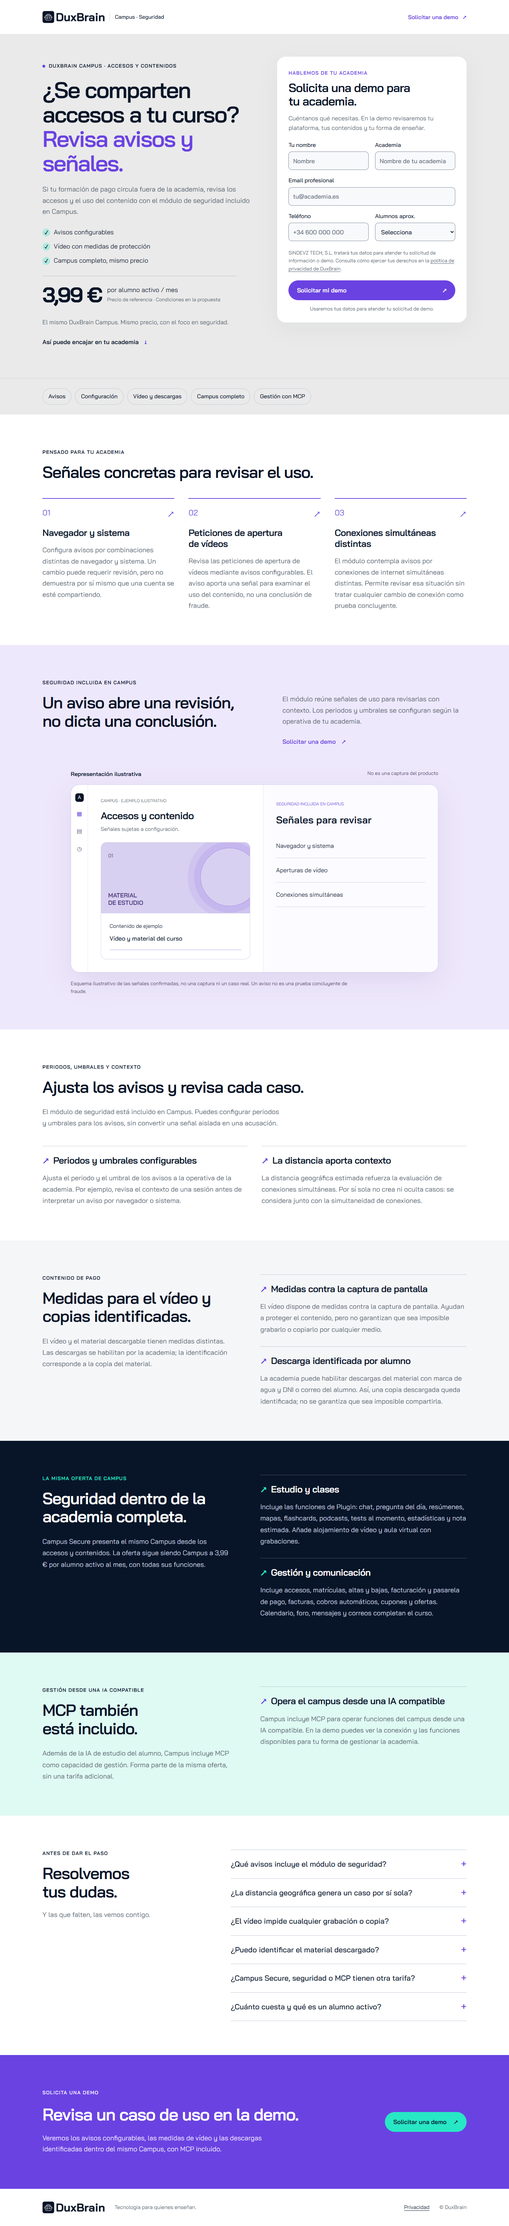
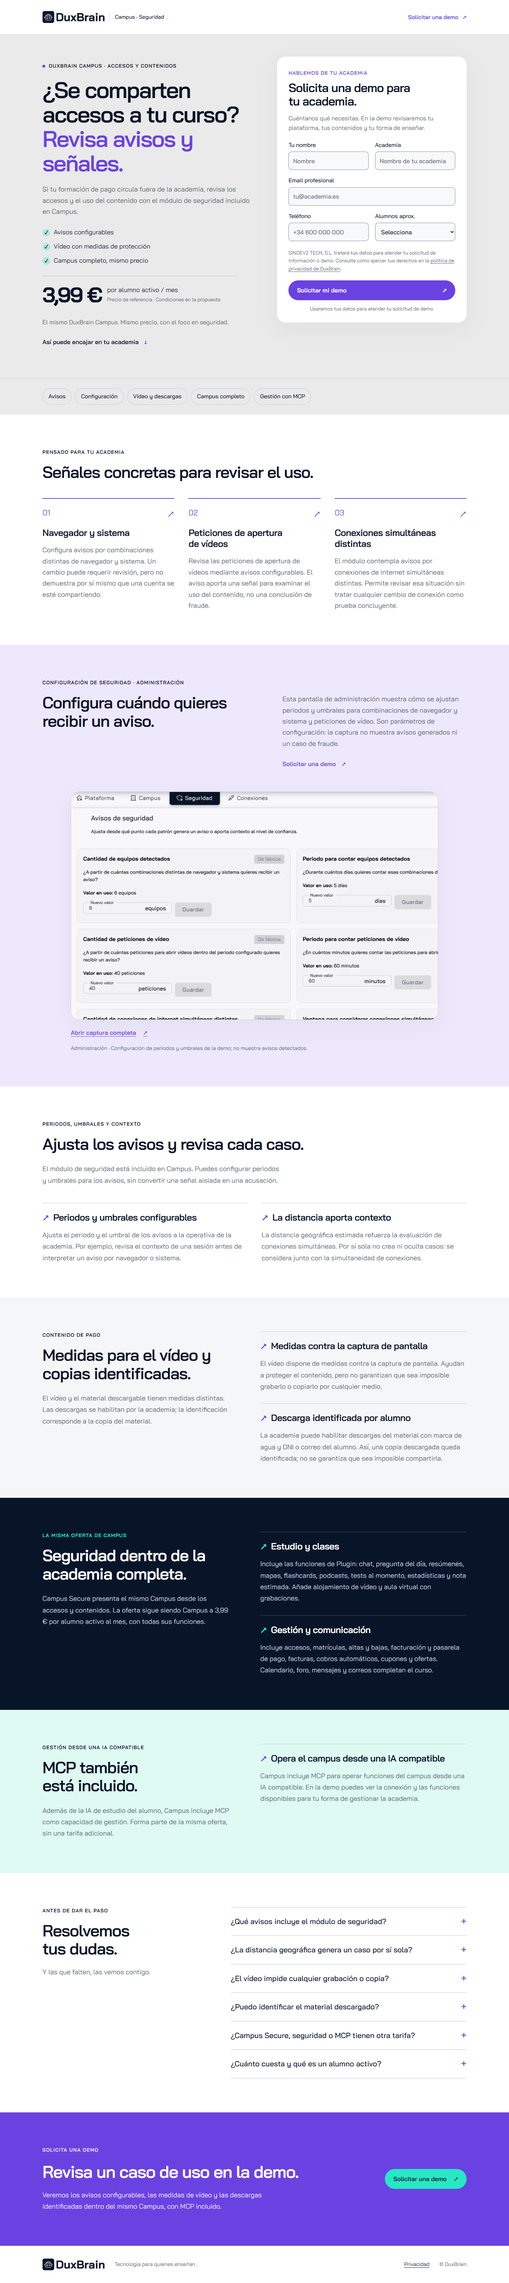
feat: integrate reviewed product screenshots across landing pages

diff --git a/src/content/landings.ts b/src/content/landings.ts
@@ -8,7 +8,7 @@ export type LandingContent = {
   description: string; price: string; points: string[];
   benefitsTitle: string; benefits: { title: string; text: string }[];
   demoTitle: string; demoText: string;
-  demo: { courseTitle: string; subtitle: string; material: string; panelLabel: string; panelTitle: string; question?: string; answer?: string; reviewTopics?: string[]; caption: string };
+  demo: { panelLabel: string };
   sections: LandingSection[];
   finalTitle: string; finalText: string;
   faqs: { question: string; answer: string }[];
@@ -16,13 +16,6 @@ export type LandingContent = {
 };
 const priceFaq = (price: string) => ({ question: "¿Cuánto cuesta y qué es un alumno activo?", answer: `El precio de referencia es ${price} por alumno activo al mes. Antes de contratar, confirmaremos cómo se cuenta un alumno activo, los impuestos y las condiciones de la propuesta.` });
 const aiFaq = { question: "¿La IA sustituye al profesor o garantiza una nota?", answer: "No. La IA ayuda a estudiar sobre el temario de la academia, pero puede equivocarse. La nota estimada es una orientación para el estudio, no una garantía de resultado en un examen. El contenido del curso y el criterio del docente siguen siendo la referencia." };
-const studyDemo = {
-  courseTitle: "Estadística · Tema 1", subtitle: "Contenido ficticio para explicar el uso.", material: "Variables y ejemplos",
-  panelLabel: "EJEMPLO DE CHAT SOBRE EL TEMARIO", panelTitle: "Una duda sobre el tema.",
-  question: "¿Qué es una variable? Ponme un ejemplo.",
-  answer: "En el Tema 1 de este ejemplo, una variable es un dato que puede cambiar. Las horas de estudio son una variable: cada alumno puede dedicar un tiempo distinto.",
-  caption: "Ejemplo editorial ilustrativo, no una captura ni una respuesta real del producto. El material y la conversación son ficticios.",
-};
 const downloads = { title: "Descarga identificada por alumno", text: "La academia puede habilitar descargas del material con marca de agua y DNI o correo del alumno. Así, una copia descargada queda identificada; no se garantiza que sea imposible compartirla." };
 const videoProtection = { title: "Medidas contra la captura de pantalla", text: "El vídeo dispone de medidas contra la captura de pantalla. Ayudan a proteger el contenido, pero no garantizan que sea imposible grabarlo o copiarlo por cualquier medio." };
 const mcp = { title: "Opera el campus desde una IA compatible", text: "Campus incluye MCP para operar funciones del campus desde una IA compatible. En la demo puedes ver la conexión y las funciones disponibles para tu forma de gestionar la academia." };
@@ -39,7 +32,7 @@ export const landings: Record<LandingId, LandingContent> = {
       { title: "Practica lo que has estudiado", text: "Después de leer, el alumno puede generar un test al momento o repasar con flashcards. El estudio continúa sobre el mismo temario." },
     ],
     demoTitle: "Una duda concreta sobre el material de tu academia.",
-    demoText: "El chat conecta el estudio con el temario: el alumno pregunta por una idea y puede pedir otra forma de entenderla. Este ejemplo editorial muestra ese recorrido.", demo: studyDemo,
+    demoText: "El chat conecta el estudio con el temario: el alumno pregunta por una idea y puede pedir otra forma de entenderla. En esta captura de la academia demo, pregunta sobre la romanización en Hispania y recibe una respuesta con referencias al material.", demo: { panelLabel: "CHAT SOBRE EL TEMARIO · VISTA DE ALUMNO" },
     sections: [
       { id: "herramientas", navLabel: "Herramientas", eyebrow: "PARA ENTENDER Y PRACTICAR", title: "Elige cómo trabajar cada tema.", description: "Plugin incluye chat y pregunta del día, junto con herramientas para preparar el repaso y poner a prueba lo aprendido.", items: [
         { title: "Resúmenes y mapas conceptuales", text: "Repasa las ideas principales con un resumen y sus relaciones con un mapa conceptual. Por ejemplo, vuelve a la estructura de un tema antes de practicarlo." },
@@ -77,8 +70,8 @@ export const landings: Record<LandingId, LandingContent> = {
       { title: "Repasa y practica a su ritmo", text: "Campus incluye las herramientas de Plugin: pregunta del día, resúmenes, mapas conceptuales, flashcards, podcasts y tests generados al momento." },
       { title: "Consulta cómo va estudiando", text: "Las estadísticas de estudio y la nota estimada ayudan a orientar el repaso. El equipo de la academia cuenta también con seguimiento del alumnado." },
     ],
-    demoTitle: "El contenido y la ayuda de estudio, en el mismo lugar.",
-    demoText: "El alumno encuentra el tema, pregunta y continúa su estudio. Campus incluye la experiencia de Plugin y añade el entorno para enseñar y gestionar la academia.", demo: studyDemo,
+    demoTitle: "El recorrido del alumno empieza en sus cursos.",
+    demoText: "En la vista Mis cursos de la academia demo, el alumno encuentra las materias disponibles. Desde el curso continúa hacia los materiales y las herramientas de estudio. Campus reúne ese recorrido con las clases y la gestión.", demo: { panelLabel: "MIS CURSOS · VISTA DE ALUMNO" },
     sections: [
       { id: "clases-video", navLabel: "Clases y vídeo", eyebrow: "DEL MATERIAL A LA CLASE", title: "Da clase y conserva la grabación.", description: "Campus incluye alojamiento de vídeo y aula virtual con grabaciones para reunir las clases y los materiales del curso.", items: [
         { title: "Vídeo alojado en Campus", text: "Incorpora el vídeo a tu formación. El alumno puede volver a una explicación grabada junto al material que está estudiando." },
@@ -121,9 +114,9 @@ export const landings: Record<LandingId, LandingContent> = {
       { title: "Peticiones de apertura de vídeos", text: "Revisa las peticiones de apertura de vídeos mediante avisos configurables. El aviso aporta una señal para examinar el uso del contenido, no una conclusión de fraude." },
       { title: "Conexiones simultáneas distintas", text: "El módulo contempla avisos por conexiones de internet simultáneas distintas. Permite revisar esa situación sin tratar cualquier cambio de conexión como prueba concluyente." },
     ],
-    demoTitle: "Un aviso abre una revisión, no dicta una conclusión.",
-    demoText: "El módulo reúne señales de uso para revisarlas con contexto. Los periodos y umbrales se configuran según la operativa de tu academia.",
-    demo: { courseTitle: "Accesos y contenido", subtitle: "Señales sujetas a configuración.", material: "Vídeo y material del curso", panelLabel: "SEGURIDAD INCLUIDA EN CAMPUS", panelTitle: "Señales para revisar", reviewTopics: ["Navegador y sistema", "Aperturas de vídeo", "Conexiones simultáneas"], caption: "Esquema ilustrativo de las señales confirmadas, no una captura ni un caso real. Un aviso no es una prueba concluyente de fraude." },
+    demoTitle: "Configura cuándo quieres recibir un aviso.",
+    demoText: "Esta pantalla de administración muestra cómo se ajustan periodos y umbrales para combinaciones de navegador y sistema y peticiones de vídeo. Son parámetros de configuración: la captura no muestra avisos generados ni un caso de fraude.",
+    demo: { panelLabel: "CONFIGURACIÓN DE SEGURIDAD · ADMINISTRACIÓN" },
     sections: [
       { id: "configuracion-avisos", navLabel: "Configuración", eyebrow: "PERIODOS, UMBRALES Y CONTEXTO", title: "Ajusta los avisos y revisa cada caso.", description: "El módulo de seguridad está incluido en Campus. Puedes configurar periodos y umbrales para los avisos, sin convertir una señal aislada en una acusación.", items: [
         { title: "Periodos y umbrales configurables", text: "Ajusta el periodo y el umbral de los avisos a la operativa de la academia. Por ejemplo, revisa el contexto de una sesión antes de interpretar un aviso por navegador o sistema." },

diff --git a/src/app/globals.css b/src/app/globals.css
@@ -119,36 +119,14 @@ fieldset:disabled .button { opacity: .7; cursor: default; transform: none; }
 .demo-copy p { margin: 24px 0; font-size: 17px; max-width: 58ch; }
 .demo-copy .text-link { color: var(--purple); }
 .demo-figure { margin: 0; min-width: 0; width: 100%; }
-.illustration-label { display: flex; flex-direction: column; gap: 4px; margin-bottom: 16px; font-size: 16px; font-weight: 600; color: var(--ink); }
-.illustration-label span { font-size: 14px; font-weight: 400; color: #514466; }
-.product-window { border-radius: var(--radius); background: white; overflow: hidden; box-shadow: 0 24px 70px #422a781a; border: 1px solid #d9cdef; }
-.product-body { display: grid; grid-template-columns: 32px minmax(0, 1fr); }
-.mock-sidebar { display: flex; flex-direction: column; align-items: center; padding: 24px 0; gap: 20px; border-right: 1px solid #e7e4ed; }
-.mock-square { width: 24px; height: 24px; background: var(--ink); color: white; border-radius: 7px; text-align: center; font-size: 14px; }
-.mock-nav { font-size: 18px; color: #77698d; }
-.mock-nav.active { color: var(--purple); }
-.mock-main { padding: 24px 18px; }
-.mock-kicker { font-size: 12px; line-height: 1.5; color: var(--muted); margin-bottom: 16px; }
-.mock-main h3 { font-size: 24px; }
-.mock-subtitle { font-size: 15px; margin-top: 10px; }
-.course-preview { margin-top: 24px; border: 1px solid #d9d2e7; border-radius: 16px; overflow: hidden; }
-.course-art { background: #d8d0f0; height: 140px; position: relative; overflow: hidden; padding: 20px; color: #493480; }
-.course-art > span:first-child { font-size: 14px; }
-.art-caption { position: absolute; left: 20px; bottom: 20px; font-size: 17px; font-weight: 600; line-height: 1.2; }
-.orbit { position: absolute; border: 1px solid #6a42e175; border-radius: 50%; width: 165px; height: 165px; right: -25px; top: 15px; box-shadow: 0 0 0 18px #6a42e11a, 0 0 0 36px #6a42e115; }
-.course-bottom { padding: 20px; display: grid; gap: 8px; font-size: 15px; }
-.course-bottom strong { font-size: 17px; font-weight: 500; }
-.course-line { width: 100%; height: 4px; background: #ebe6f7; margin-top: 8px; border-radius: 10px; }
-.mock-panel { grid-column: 2; border-top: 1px solid #e7e4ed; padding: 28px 18px; background: #fcfbff; }
-.panel-tag { font-size: 12px; color: var(--purple); line-height: 1.5; }
-.mock-panel h4 { font-size: 24px; margin-top: 16px; }
-.chat-question { margin: 24px 0 16px; background: var(--purple); color: white; border-radius: 16px 16px 0 16px; padding: 16px; font-size: 17px; }
-.chat-answer { display: flex; gap: 10px; font-size: 17px; background: #f0edf7; padding: 16px; border-radius: 16px; }
-.ai-mark { color: var(--purple); }
-.mock-input { margin-top: 24px; padding: 12px; border: 1px solid #cfc4df; border-radius: 10px; font-size: 15px; color: var(--muted); }
-.control-list { margin-top: 24px; font-size: 17px; }
-.control-list > div { padding: 20px 0; border-bottom: 1px solid #d8cfe7; }
-figcaption { font-size: 14px; line-height: 1.6; color: #514466; margin-top: 20px; max-width: 90ch; }
+.product-capture { margin: 0; min-width: 0; }
+.capture-link { display: block; }
+.capture-frame { border-radius: var(--radius); background: white; overflow: hidden; box-shadow: var(--shadow); border: 1px solid #c9cdd7; }
+.capture-frame img { display: block; width: 100%; height: auto; }
+.capture-open { display: inline-flex; align-items: center; gap: 20px; min-height: 48px; margin-top: 12px; font-size: 17px; font-weight: 600; color: var(--purple); text-decoration: underline; text-underline-offset: 4px; }
+.capture-link:focus-visible { border-radius: var(--radius); }
+figcaption { font-size: 15px; line-height: 1.6; color: var(--muted); margin-top: 8px; max-width: 90ch; }
+.section-capture { grid-column: 1 / -1; width: 100%; max-width: 1040px; margin-inline: auto; }
 .product-clarification { font-size: 17px; margin: 0 0 20px; max-width: 48ch; }
 .faq-band { background: var(--surface); }
 .faq-section { display: grid; gap: 36px; }
@@ -196,9 +174,6 @@ details p { font-size: 17px; line-height: 1.75; padding-top: 20px; max-width: 65
   .lead-card { padding: 36px; }
   .form-grid { grid-template-columns: repeat(2, minmax(0, 1fr)); }
   .full { grid-column: 1 / -1; }
-  .mock-panel { grid-column: auto; border-top: 0; border-left: 1px solid #e7e4ed; }
-  .product-body { grid-template-columns: 48px minmax(0, 1fr) minmax(0, 1fr); }
-  .illustration-label { flex-direction: row; justify-content: space-between; gap: 20px; }
   .footer p { flex: 1; }
   .final-cta .button { width: auto; }
   .review-grid { grid-template-columns: repeat(3, minmax(0, 1fr)); }
@@ -236,10 +211,6 @@ details p { font-size: 17px; line-height: 1.75; padding-top: 20px; max-width: 65
   .demo-copy p { margin: 0 0 20px; }
   .demo-copy a { grid-column: 2; justify-self: start; align-self: start; }
   .demo-figure { max-width: 1040px; margin-inline: auto; }
-  .mock-main, .mock-panel { padding: 36px; }
-  .mock-main h3, .mock-panel h4 { font-size: 28px; }
-  .course-art { height: 200px; }
-  .course-bottom { padding: 24px; }
   .faq-section { grid-template-columns: .8fr 1.2fr; gap: 88px; }
   summary { font-size: 21px; }
   .final-cta { flex-direction: row; align-items: center; justify-content: space-between; gap: 64px; }

diff --git a/src/components/landing.tsx b/src/components/landing.tsx
@@ -1,6 +1,7 @@
 import Link from "next/link";
 import Image from "next/image";
 import type { LandingContent } from "@/content/landings";
+import { primaryScreenshots, sectionScreenshots, type ProductScreenshot } from "@/content/product-images";
 import { privacyUrl } from "@/lib/leads";
 import { LeadForm } from "./lead-form";
 
@@ -52,17 +53,23 @@ export function FeatureSections({ content: c }: { content: LandingContent }) {
   return c.sections.map(section => <section className={`section feature-section band-${tones[section.id] ?? "paper"}`} id={section.id} key={section.id} aria-labelledby={`${section.id}-title`}><div className="container feature-layout">
     <div className="section-heading"><span className="eyebrow">{section.eyebrow}</span><h2 id={`${section.id}-title`}>{section.title}</h2><p className="feature-description">{section.description}</p></div>
     <div className="feature-grid">{section.items.map(item => <article className="feature-item" key={item.title}><h3><span aria-hidden="true">↗</span>{item.title}</h3><p>{item.text}</p></article>)}</div>
+    {sectionScreenshots[`${c.id}/${section.id}`] && <div className="section-capture"><ProductCapture screenshot={sectionScreenshots[`${c.id}/${section.id}`]} /></div>}
   </div></section>);
+}
+
+function ProductCapture({ screenshot }: { screenshot: ProductScreenshot }) {
+  return <figure className="product-capture">
+    <a className="capture-link" href={screenshot.src} target="_blank" rel="noopener noreferrer" aria-label={`Abrir captura completa en otra pestaña: ${screenshot.alt}`}>
+      <div className="capture-frame"><Image src={screenshot.src} alt={screenshot.alt} width={screenshot.width} height={screenshot.height} sizes="(max-width: 599px) calc(100vw - 40px), (max-width: 1103px) calc(100vw - 64px), 1040px" /></div>
+      <span className="capture-open">Abrir captura completa <span aria-hidden="true">↗</span></span>
+    </a>
+    <figcaption>{screenshot.caption}</figcaption>
+  </figure>;
 }
 
 export function VisualDemo({ content: c }: { content: LandingContent }) {
   return <section className="demo-section" id="en-accion"><div className="container demo-layout"><div className="demo-copy"><span className="eyebrow">{c.demo.panelLabel}</span><h2>{c.demoTitle}</h2><p>{c.demoText}</p><a className="text-link" href="#demo">Solicitar una demo <span aria-hidden="true">↗</span></a></div>
-    <figure className="demo-figure"><div className="illustration-label">Representación ilustrativa<span>No es una captura del producto</span></div><div className="product-window">
-      <div className="product-body"><aside className="mock-sidebar" aria-hidden="true"><span className="mock-square">A</span><span className="mock-nav active">▦</span><span className="mock-nav">▤</span><span className="mock-nav">◷</span></aside>
-      <div className="mock-main"><div className="mock-kicker">CAMPUS · EJEMPLO ILUSTRATIVO</div><h3>{c.demo.courseTitle}</h3><p className="mock-subtitle">{c.demo.subtitle}</p>
-      <div className="course-preview"><div className="course-art" aria-hidden="true"><span>01</span><div className="orbit" /><span className="art-caption">MATERIAL<br />DE ESTUDIO</span></div><div className="course-bottom"><span>Contenido de ejemplo</span><strong>{c.demo.material}</strong><span className="course-line" /></div></div>
-      </div><div className="mock-panel"><span className="panel-tag">{c.demo.panelLabel}</span><h4>{c.demo.panelTitle}</h4>{c.demo.reviewTopics ? <div className="control-list">{c.demo.reviewTopics.map(x => <div key={x}>{x}</div>)}</div> : <><div className="chat-question">{c.demo.question}</div><div className="chat-answer"><span className="ai-mark" aria-hidden="true">✳</span><p>{c.demo.answer}</p></div><div className="mock-input">Conversación de ejemplo</div></>}
-      </div></div></div><figcaption>{c.demo.caption}</figcaption></figure>
+    <div className="demo-figure"><ProductCapture screenshot={primaryScreenshots[c.id]} /></div>
   </div></section>;
 }
 

diff --git a/src/content/product-images.ts b/src/content/product-images.ts
@@ -1,0 +1,42 @@
+import type { LandingId } from "./landings";
+
+// Only visually reviewed, approved screenshots belong in this manifest.
+// campus-gestion.png is excluded pending replacement of the student email cells.
+export type ProductScreenshot = {
+  src: string;
+  width: number;
+  height: number;
+  alt: string;
+  caption: string;
+};
+
+export const primaryScreenshots: Record<LandingId, ProductScreenshot> = {
+  plugin: {
+    src: "/product/plugin-chat.png", width: 976, height: 790,
+    alt: "Chat de estudio con una pregunta sobre la romanización en Hispania y una respuesta con referencias al material.",
+    caption: "Vista de alumno · Chat sobre el temario de Historia en la academia demo, con referencias al material.",
+  },
+  campus: {
+    src: "/product/campus-cursos.png", width: 1178, height: 855,
+    alt: "Pantalla Mis cursos de Academia EBAU Demo, con cursos de Física II e Historia de España.",
+    caption: "Vista de alumno · Mis cursos en Academia EBAU Demo.",
+  },
+  "campus-secure": {
+    src: "/product/secure-umbrales.png", width: 1240, height: 768,
+    alt: "Configuración de seguridad con umbrales y periodos para combinaciones de navegador y sistema y peticiones de vídeo.",
+    caption: "Administración · Configuración de periodos y umbrales de la demo; no muestra avisos detectados.",
+  },
+};
+
+export const sectionScreenshots: Record<string, ProductScreenshot> = {
+  "plugin/herramientas": {
+    src: "/product/plugin-estudio.png", width: 931, height: 807,
+    alt: "Fragmento de un mapa conceptual de la Monarquía Hispánica, con relaciones entre las instituciones del Estado.",
+    caption: "Vista de alumno · Detalle del mapa conceptual de la Monarquía Hispánica.",
+  },
+  "campus/clases-video": {
+    src: "/product/campus-aula-video.png", width: 1655, height: 822,
+    alt: "Lección de Historia de España con un reproductor de vídeo y la identificación ficticia Alumno Demo.",
+    caption: "Vista de alumno · Lección con vídeo de Historia de España en la academia demo.",
+  },
+};

diff --git a/docs/activos-pendientes.md b/docs/activos-pendientes.md
@@ -1,39 +1,35 @@
-# Activos oficiales pendientes · 3 de noviembre de 2026
+# Activos de marca y producto · 4 de noviembre de 2026
 
-## Resultado de los accesos
+## Inventario revisado e integración
 
-- Resuelto: el propietario ha copiado los PNG en `public/brand/`. Se usa `DuxBrain-04.png` en cabecera y pie claros de las tres landings y `DuxBrain2.png` como icono de pestaña. Se conservan sus nombres y proporciones originales. El acceso anterior a Drive pedía iniciar sesión; ya no bloquea la integración de identidad.
-- El navegador integrado falla antes de abrir una sesión con `codex/sandbox-state-meta: missing field sandboxPolicy`. Se ha utilizado Chrome instalado con Playwright para la revisión local.
-- El conector DuxBrain EBAU Demo responde que la autenticación se ha solicitado y aceptado y pide reintentar; el reintento devuelve el mismo mensaje, sin acceso a la academia ni sesión navegable. No se han consultado alumnos ni realizado operaciones en el campus.
+Se han inspeccionado visualmente los seis PNG originales de public/product/, sin asumir su contenido por el nombre. Los nombres coinciden con los destinos propuestos, pero el contenido limita lo que cada uno demuestra. No se han encontrado metadatos EXIF, XMP, IPTC o comentarios en estos archivos.
 
-Logos oficiales incorporados. Siguen pendientes las capturas reales del producto. Se conserva la ilustración anterior, con un rótulo visible fuera del marco: «Representación ilustrativa / No es una captura del producto». El ejemplo no acredita el aspecto real de ninguna pantalla. Las seis imágenes de `docs/capturas/` son capturas de las landings locales, no del producto.
-
-## Identidad resuelta
-
-No faltan activos para la cabecera, pie o icono actuales. Se han compensado los márgenes transparentes de `DuxBrain-04.png` mediante CSS sin modificar el PNG. El pie se presenta sobre blanco para utilizar la misma variante oscura indicada por el propietario.
-
-La variante opcional `DuxBrain_sinfondo_celeste(1).png` solo se necesitaría si se añade un logo sobre fondo oscuro. No se utiliza en este diseño ni se ha sustituido por otro archivo de nombre parecido. Detalles en [public/brand/README.md](../public/brand/README.md).
-
-## Siete capturas prioritarias necesarias
-
-Los siguientes nombres son destinos propuestos para organizar las capturas, no archivos ya existentes. Entregar PNG originales sin compresión de mensajería; anchura recomendada de 1440 px o superior, con el área de interés completa. No incluir la barra del navegador. Indicar si la pantalla corresponde al rol alumno o administración.
-
-| Destino propuesto en `public/product/` | Pantalla real requerida | Uso |
+| Archivo y dimensiones | Pantalla y rol visibles | Estado y ubicación |
 | --- | --- | --- |
-| `plugin-chat.png` | Alumno con un tema ficticio abierto y una pregunta y respuesta reales del chat sobre ese material; debe verse la relación con el tema. | Principal de Plugin |
-| `plugin-estudio.png` | Herramientas sobre ese mismo tema, por ejemplo resumen, mapa o flashcards generados con material ficticio. | Herramientas de estudio |
-| `campus-cursos.png` | Vista de cursos o inicio del alumno con cursos de demostración. | Principal de Campus |
-| `campus-aula-video.png` | Lección con vídeo alojado o aula con una grabación de demostración, sin rostros ni participantes reales. | Clases y vídeo |
-| `campus-gestion.png` | Gestión de cursos o matrículas exclusivamente ficticias, sin datos de pago ni registros de personas reales. | Gestión de Campus |
-| `secure-avisos.png` | Panel real de avisos con casos sintéticos claramente identificados, sin IP, ubicaciones, dispositivos o identidades de personas reales. | Principal de Campus Secure |
-| `secure-umbrales.png` | Configuración real de periodos y umbrales de los avisos, sin secretos ni datos de terceros. No hace falta cambiar ni guardar valores. | Configuración de seguridad |
+| plugin-chat.png · 976 × 790 | Estudio, vista de alumno: pregunta sobre romanización en Hispania, respuesta con referencias y pestañas de herramientas. | Integrada como principal de /plugin. Sin nombres personales, correos o URL visibles. El identificador corto etiquetado CONVERSACIÓN no es una credencial ni un enlace de acceso visible. |
+| plugin-estudio.png · 931 × 807 | Estudio, vista de alumno: fragmento del mapa conceptual de la Monarquía Hispánica y sus instituciones. | Integrada en Herramientas de /plugin. El original tiene ramas recortadas: el pie la describe como detalle. No demuestra podcasts, resúmenes u otras herramientas solo por tener sus pestañas. |
+| campus-cursos.png · 1178 × 855 | Vista de alumno: Mis cursos de Academia EBAU Demo, con Física II e Historia de España y material gráfico educativo. | Integrada como principal de /campus. Sin datos identificables de alumnos o docentes. |
+| campus-aula-video.png · 1655 × 822 | Vista de alumno: lección de Historia con reproductor e identificación ficticia Alumno Demo. | Integrada en Clases y vídeo de /campus. Muestra una lección con vídeo; no una videollamada, ni acredita por sí sola medidas contra la captura. No se presenta como aula virtual o prueba de seguridad. |
+| campus-gestion.png · 1530 × 772 | Administración: Accesos y matrículas, filtros, cifras y tabla de estudiantes. | EXCLUIDA. La columna ESTUDIANTE contiene dos direcciones de correo con nombres, aunque el dominio es de prueba. No se referencia ni se añade al commit. La sección de gestión queda sin imagen. |
+| secure-umbrales.png · 1240 × 768 | Administración: configuración de umbrales y periodos para navegador/sistema y peticiones de vídeo; solo asoma el siguiente panel de conexiones. | Integrada como principal de /campus-secure. No muestra avisos ni casos, IP, ubicación o identidades. Los valores visibles son los de la demo; no se anuncian como configuración universal o garantía. |
 
-No es necesario mostrar todas las funciones en una única captura. Si una pantalla no existe o no resulta adecuada para publicación, indicarlo para mantener la representación ilustrativa. Solo añadir pantallas que correspondan a las capacidades confirmadas. No fabricar pantallas de MCP, avisos o herramientas de estudio.
+Los cinco archivos integrados no muestran contraseñas, tokens de acceso, DNI, IP, ubicaciones de usuarios, datos financieros ni identidades de terceros en la revisión visual. Las referencias geográficas o personales del contenido de Historia son material educativo. No se ha retocado ninguna imagen ni fabricado una pantalla.
 
-Antes de copiar un activo a `public/`, revisar todos los píxeles: nombres, correos, DNI, avatares, notificaciones, direcciones IP, URL con tokens, contraseñas, códigos de acceso y datos financieros. Usar exclusivamente una demo con datos ficticios; no compartir credenciales por chat ni incorporar datos personales al repositorio. Las descargas identificadas, si se muestran en el futuro, deben utilizar también una identidad completamente ficticia.
+## Sustitución necesaria para gestión
 
-## Integración pendiente al recibir los archivos
+En campus-gestion.png, sustituir las dos celdas de la columna ESTUDIANTE situadas bajo su cabecera, en la franja inferior: aproximadamente x=120–490, y=660–772 del original de 1530 × 772. Usar identificadores ficticios sin correo, por ejemplo Alumno Demo 01 y Alumno Demo 02, y comprobar cualquier fila adicional al volver a capturar.
 
-Sustituir la representación en `VisualDemo` por una captura real pertinente a cada ruta, con `next/image`, dimensiones explícitas, proporción conservada y pie descriptivo del rol y pantalla. No superponer textos que simulen controles ni recortar la información necesaria para entender la función. En móvil seleccionar un encuadre legible y permitir consultar la imagen completa. Validar de nuevo las seis vistas.
+El archivo original permanece localmente intacto e ignorado expresamente en .gitignore para evitar subirlo por accidente. Al recibir una versión limpia, revisarla visualmente otra vez y retirar la exclusión antes de incorporarla. No publicar este archivo con el estado actual.
 
-Los textos comerciales, precios, metadatos, campos, atribución y lógica del formulario se conservan. `LEADS_SHEETS_WRITES_ENABLED=false`; entrega real todavía pendiente de configurar y verificar. Este trabajo no despliega ni activa envíos.
+## Pendientes
+
+- secure-avisos.png: no existe porque la academia demo todavía no tiene avisos. Pendiente una captura real con casos de demostración y datos ficticios, cuando esté disponible. No se necesita inventar casos ni poblar la academia para esta tarea. La configuración real ya sustituye a la ilustración principal de Secure.
+- campus-gestion.png: pendiente reemplazar la zona indicada. Sin imagen de gestión hasta entonces.
+
+## Presentación y verificación
+
+Las imágenes se declaran en src/content/product-images.ts, con dimensiones, texto alternativo y pie que identifica pantalla y rol. Se utiliza next/image, sin recortes adicionales ni superposiciones de controles. Cada imagen ofrece Abrir captura completa en otra pestaña: permite ampliar el original en móvil, incluso cuando el texto de la miniatura es pequeño. Un enlace al original no recupera el contenido que ya estaba fuera del encuadre de la captura.
+
+Las tres representaciones editoriales se han retirado al disponer de capturas reales principales. No queda un panel de avisos ficticio. Los únicos ajustes de texto comercial describen fielmente las nuevas demostraciones; precios, metadatos y formulario se conservan. Logos oficiales DuxBrain-04.png en superficies claras y DuxBrain2.png como icono, sin modificaciones.
+
+Revisión final con Chrome a 1440 y 390 px y seis capturas completas en docs/capturas/. Las pruebas de formulario interceptan la API. LEADS_SHEETS_WRITES_ENABLED=false; sin escrituras, correos reales, merge o despliegue.

diff --git a/docs/revision-visual.md b/docs/revision-visual.md
@@ -1,4 +1,8 @@
-# Revisión visual · 3 de noviembre de 2026
+# Revisión visual · 4 de noviembre de 2026
+
+Actualización de producto real: cinco capturas revisadas e integradas, con roles, textos alternativos y enlaces al original. Se retiran las tres representaciones de las demos principales. La imagen de gestión se excluye por las celdas de correo y secure-avisos.png sigue pendiente. Inventario, ubicaciones y sustituciones necesarias en [activos-pendientes.md](activos-pendientes.md). Las seis capturas enlazadas se han renovado con este estado.
+
+Las notas del rediseño siguiente describen el diseño de base; donde mencionan una ilustración, esta ha sido sustituida por las capturas reales indicadas.
 
 ## Acabado visual actual en feature/landing-copy
 
